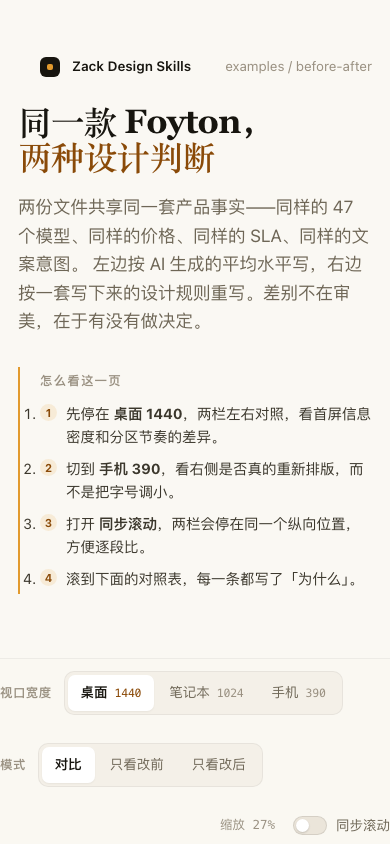
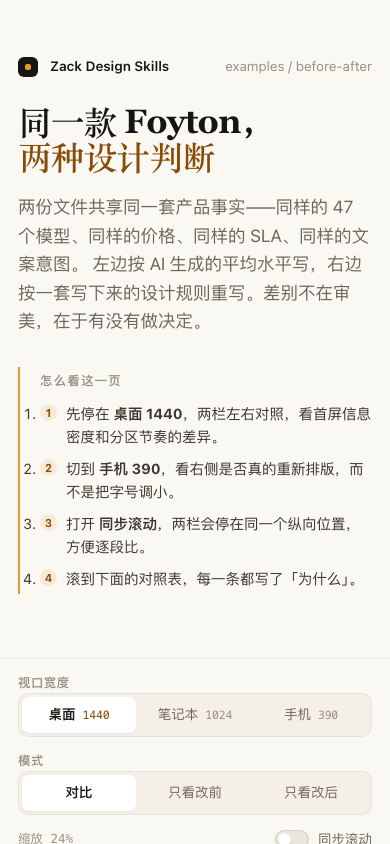
fix: 修复示例页 32px 容器错位、单栏模式测量顺序、滚动同步振荡
子代理在视觉复核中发现并修复了 5 个真实缺陷，全部经独立脚本复现与验收：

1. 容器错位（最严重）—— `.bento-sec` / `.pricing` / `.faq` / `.cta-sec`
   等元素同时带 `.wrap` 类，自身的 `padding:96px 0` 简写把 `.wrap` 的
   左右 32px 内边距覆盖成 0，导致这些区块内容从 x=100 开始而 hero 从
   x=132 开始。实测确认错位 32px，共修正 12 处简写。
2. 单栏模式测量顺序 —— layout() 先测量再写 data-mode，切到「只看改后」
   时读到旧的半宽面板，iframe 被算成 49% 并左对齐。改为先写状态再测量。
3. 选择器过宽 —— `.top-in span{margin-left:auto}` 把品牌标记也推到右边，
   收窄为 `.top-in > span:last-child`。
4. 滚动同步振荡 —— 两侧都有 scroll-behavior:smooth，会互相追着做动画
   并停在不同位置。同步时强制瞬时跳转。
5. 深色代码格留白 —— 补 code-foot 说明行并用 margin-top:auto 贴底。

验收：6 个页面在 1440/1024/768/390 全部零横向溢出；after.html 六个区块
左边距全部为 132；单栏模式 iframe 宽度 678→1376px；HTML 结构平衡、
无重复 id、零外部资源引用、after/index 无 emoji。

日期: 2026-10-11
作者: Zack

diff --git a/examples/before-after/after.html b/examples/before-after/after.html
@@ -334,7 +334,7 @@ table{border-collapse:collapse;width:100%}
 /* ==========================================================================
    BENTO 特性网格
    ========================================================================== */
-.bento-sec{padding:96px 0}
+.bento-sec{padding-top:96px;padding-bottom:96px}
 .sec-head{max-width:66ch;margin-bottom:44px}
 .sec-head h2{font-size:clamp(1.9rem,3.4vw,2.9rem);line-height:1.08;letter-spacing:-.02em;
   margin:14px 0 16px}
@@ -379,9 +379,12 @@ table{border-collapse:collapse;width:100%}
   background:var(--dark-2);border-bottom:1px solid var(--dark-line-soft)}
 .code-head span{font-size:11.5px;color:var(--dark-muted);font-family:var(--font-mono)}
 .code-head .ic{color:var(--accent-on-dark);margin-right:2px}
-.code-body{background:var(--dark);padding:14px;overflow:auto;flex:1}
+.code-body{background:var(--dark);padding:14px;overflow:auto;flex:1;
+  display:flex;flex-direction:column}
 .code-body pre{font-family:var(--font-mono);font-size:12.5px;line-height:1.75;
   color:#D8D2C6;white-space:pre}
+.code-foot{margin-top:auto;padding-top:11px;border-top:1px solid var(--dark-line-soft);
+  font-family:var(--font-mono);font-size:11px;line-height:1.5;color:#7F7A6E}
 .tk-key{color:#E8B872}
 .tk-str{color:#8FBF8A}
 .tk-com{color:#6E6A60}
@@ -424,7 +427,7 @@ table{border-collapse:collapse;width:100%}
   .safe-list{grid-template-columns:repeat(2,1fr)}
 }
 @media (max-width:620px){
-  .bento-sec{padding:64px 0}
+  .bento-sec{padding-top:64px;padding-bottom:64px}
   .bento{grid-template-columns:1fr}
   .b-route,.b-models,.b-code,.b-cost,.b-quote,.b-alert,.b-safe{grid-column:1/-1;grid-row:auto}
   .safe-list{grid-template-columns:1fr}
@@ -470,7 +473,7 @@ table{border-collapse:collapse;width:100%}
 /* ==========================================================================
    定价
    ========================================================================== */
-.pricing{padding:96px 0}
+.pricing{padding-top:96px;padding-bottom:96px}
 .tiers{display:grid;grid-template-columns:repeat(3,1fr);gap:16px;align-items:stretch}
 .tier{
   background:var(--surface);border:1px solid var(--line-soft);border-radius:var(--r-lg);
@@ -520,12 +523,12 @@ table{border-collapse:collapse;width:100%}
 
 @media (max-width:900px){.tiers{grid-template-columns:1fr;gap:14px}
   .tier.rec{order:-1}}
-@media (max-width:620px){.pricing{padding:64px 0}.cmp th,.cmp td{padding:11px 16px}}
+@media (max-width:620px){.pricing{padding-top:64px;padding-bottom:64px}.cmp th,.cmp td{padding:11px 16px}}
 
 /* ==========================================================================
    FAQ
    ========================================================================== */
-.faq{padding:0 0 96px}
+.faq{padding-bottom:96px}
 .faq-grid{display:grid;grid-template-columns:.72fr 1.28fr;gap:56px;align-items:start}
 .faq-grid h2{font-size:clamp(1.8rem,3vw,2.5rem);line-height:1.08;letter-spacing:-.02em;
   margin:14px 0 16px}
@@ -545,12 +548,12 @@ table{border-collapse:collapse;width:100%}
 .faq-a{padding:0 4px 22px;font-size:15.5px;color:var(--muted);max-width:70ch;line-height:1.65}
 .faq-a b{color:var(--ink);font-weight:600}
 @media (max-width:900px){.faq-grid{grid-template-columns:1fr;gap:32px}
-  .faq{padding:0 0 64px}}
+  .faq{padding-bottom:64px}}
 
 /* ==========================================================================
    CTA + 页脚
    ========================================================================== */
-.cta-sec{padding:0 0 96px}
+.cta-sec{padding-bottom:96px}
 .cta-panel{
   background:var(--ink);border-radius:var(--r-xl);padding:56px;
   display:grid;grid-template-columns:1.25fr 1fr;gap:48px;align-items:center;
@@ -586,7 +589,7 @@ table{border-collapse:collapse;width:100%}
   .foot-about{grid-column:1/-1}
 }
 @media (max-width:620px){
-  .cta-sec{padding:0 0 64px}
+  .cta-sec{padding-bottom:64px}
   .site-foot{padding:44px 0 24px}
   .foot-bottom nav{margin-left:0}
 }
@@ -900,6 +903,7 @@ html{scroll-behavior:smooth}
     <span class="tk-fn">api_key</span>=<span class="tk-str">"fk_live_8a…c21"</span>,
 )
 <span class="tk-com"># 其余 SDK 代码无需改动</span></pre>
+        <p class="code-foot">兼容 /v1/chat/completions · 官方 SDK：Python / Node / Go / Java</p>
       </div>
     </article>
 
@@ -1330,7 +1334,12 @@ html{scroll-behavior:smooth}
       if (!d || d.type !== 'foyton:sync' || d.from !== 'index') return;
       if (Math.abs(window.scrollY - d.y) < 2) return;
       holding = true;
+      /* 同步时必须瞬时跳转：否则 html{scroll-behavior:smooth} 会让两侧
+         互相追着做动画，最终停在不同位置 */
+      var root = document.documentElement, prev = root.style.scrollBehavior;
+      root.style.scrollBehavior = 'auto';
       window.scrollTo(0, d.y);
+      root.style.scrollBehavior = prev;
       setTimeout(function () { holding = false; }, 70);
     });
   }

diff --git a/examples/before-after/index.html b/examples/before-after/index.html
@@ -93,7 +93,7 @@ table{border-collapse:collapse;width:100%}
   display:grid;place-items:center;flex:none}
 .top-in .mark i{width:6px;height:6px;border-radius:2px;background:var(--accent);display:block}
 .top-in b{color:var(--ink);font-weight:600}
-.top-in span{margin-left:auto}
+.top-in > span:last-child{margin-left:auto}
 
 .hero{padding:26px 0 30px;display:grid;grid-template-columns:1.28fr .72fr;gap:52px;
   align-items:end}
@@ -128,7 +128,8 @@ table{border-collapse:collapse;width:100%}
   border-bottom:1px solid var(--line-soft);
   margin-top:34px;
 }
-.toolbar-in{display:flex;align-items:center;gap:28px;flex-wrap:wrap;padding:12px 0}
+.toolbar-in{display:flex;align-items:center;gap:28px;flex-wrap:wrap;
+  padding-top:12px;padding-bottom:12px}
 .seg{display:flex;align-items:center;gap:10px;border:0;min-width:0}
 .seg > legend{float:left;font-size:12.5px;color:var(--faint);font-weight:600;
   letter-spacing:.03em;padding:0;margin-right:2px}
@@ -170,7 +171,7 @@ table{border-collapse:collapse;width:100%}
 /* ==========================================================================
    舞台：两个 iframe
    ========================================================================== */
-.stage-wrap{padding:26px 0 0}
+.stage-wrap{padding-top:26px}
 .stage{display:grid;grid-template-columns:1fr 1fr;gap:20px;align-items:start}
 .stage[data-mode="before"],.stage[data-mode="after"]{grid-template-columns:1fr}
 .stage[data-mode="before"] .frame[data-side="after"],
@@ -209,7 +210,16 @@ table{border-collapse:collapse;width:100%}
   .stage,.stage[data-mode="before"],.stage[data-mode="after"]{grid-template-columns:1fr;gap:26px}
   :root{--stage-h:560px}
 }
-@media (max-width:600px){:root{--stage-h:460px}}
+@media (max-width:600px){
+  :root{--stage-h:460px}
+  .toolbar-in{gap:14px;padding-top:14px;padding-bottom:14px}
+  .seg{width:100%;flex-direction:column;align-items:stretch;gap:6px}
+  .seg > legend{float:none;margin:0}
+  .seg-body{overflow-x:auto;scrollbar-width:none}
+  .seg-body::-webkit-scrollbar{display:none}
+  .seg label{flex:1;justify-content:center}
+  .tool-right{margin-left:0;width:100%;justify-content:space-between}
+}
 
 .frames-hint{
   margin-top:14px;font-size:13px;color:var(--faint);display:flex;align-items:center;gap:8px;
@@ -219,7 +229,7 @@ table{border-collapse:collapse;width:100%}
 /* ==========================================================================
    对照表
    ========================================================================== */
-.changes{padding:76px 0 90px}
+.changes{padding-top:76px;padding-bottom:90px}
 .changes-head{display:flex;align-items:flex-end;gap:28px;flex-wrap:wrap;
   padding-bottom:22px;border-bottom:1px solid var(--line-soft);margin-bottom:0}
 .changes-head h2{font-size:clamp(1.7rem,2.8vw,2.3rem);line-height:1.1}
@@ -584,15 +594,21 @@ table.diff .sw{width:12px;height:12px;border-radius:3px;flex:none;
   var state = { vw: 1440, mode: 'both', sync: false };
   var lockUntil = 0;
 
-  /* ---------- 布局：按目标宽度真实渲染 iframe，再等比缩放进面板 ---------- */
+  /* ---------- 布局：按目标宽度真实渲染 iframe，再等比缩放进面板 ----------
+     注意：必须先写 data-mode / data-vw 再测量。否则从「对比」切到「只看改后」时
+     读到的是旧的半宽面板，iframe 会被算成 49% 并左对齐，右半边留白。 */
   function layout() {
     var vw = state.vw;
-    var single = state.mode !== 'both';
+
+    stage.dataset.mode = state.mode;
+    stage.dataset.vw = String(vw);
+
+    var shown = 1;
 
     Object.keys(frames).forEach(function (side) {
       var frame = frames[side];
       var pane  = panes[side];
-      if (!pane || !pane.clientWidth) return;
+      if (!pane || !pane.clientWidth) return;              /* 该侧已隐藏 */
 
       var pad = vw === 390 ? 32 : 0;                       /* 手机档左右留出设备边距 */
       var avail = pane.clientWidth - 2 - pad;
@@ -609,11 +625,10 @@ table.diff .sw{width:12px;height:12px;border-radius:3px;flex:none;
       frame.style.left = offset + 'px';
       frame.style.top  = (vw === 390 ? 16 : 0) + 'px';
 
-      if (side === 'before') readout.textContent = '缩放 ' + Math.round(k * 100) + '%';
+      shown = k;
     });
 
-    stage.dataset.mode = state.mode;
-    stage.dataset.vw = String(vw);
+    readout.textContent = '缩放 ' + Math.round(shown * 100) + '%';
   }
 
   /* ---------- 控件 ---------- */

diff --git a/examples/before-after/before.html b/examples/before-after/before.html
@@ -631,7 +631,12 @@
       if (!d || d.type !== 'foyton:sync' || d.from !== 'index') return;
       if (Math.abs(window.scrollY - d.y) < 2) return;
       holding = true;
+      /* 同步时必须瞬时跳转：否则 html{scroll-behavior:smooth} 会让两侧
+         互相追着做动画，最终停在不同位置 */
+      var root = document.documentElement, prev = root.style.scrollBehavior;
+      root.style.scrollBehavior = 'auto';
       window.scrollTo(0, d.y);
+      root.style.scrollBehavior = prev;
       setTimeout(function () { holding = false; }, 70);
     });
   })();
